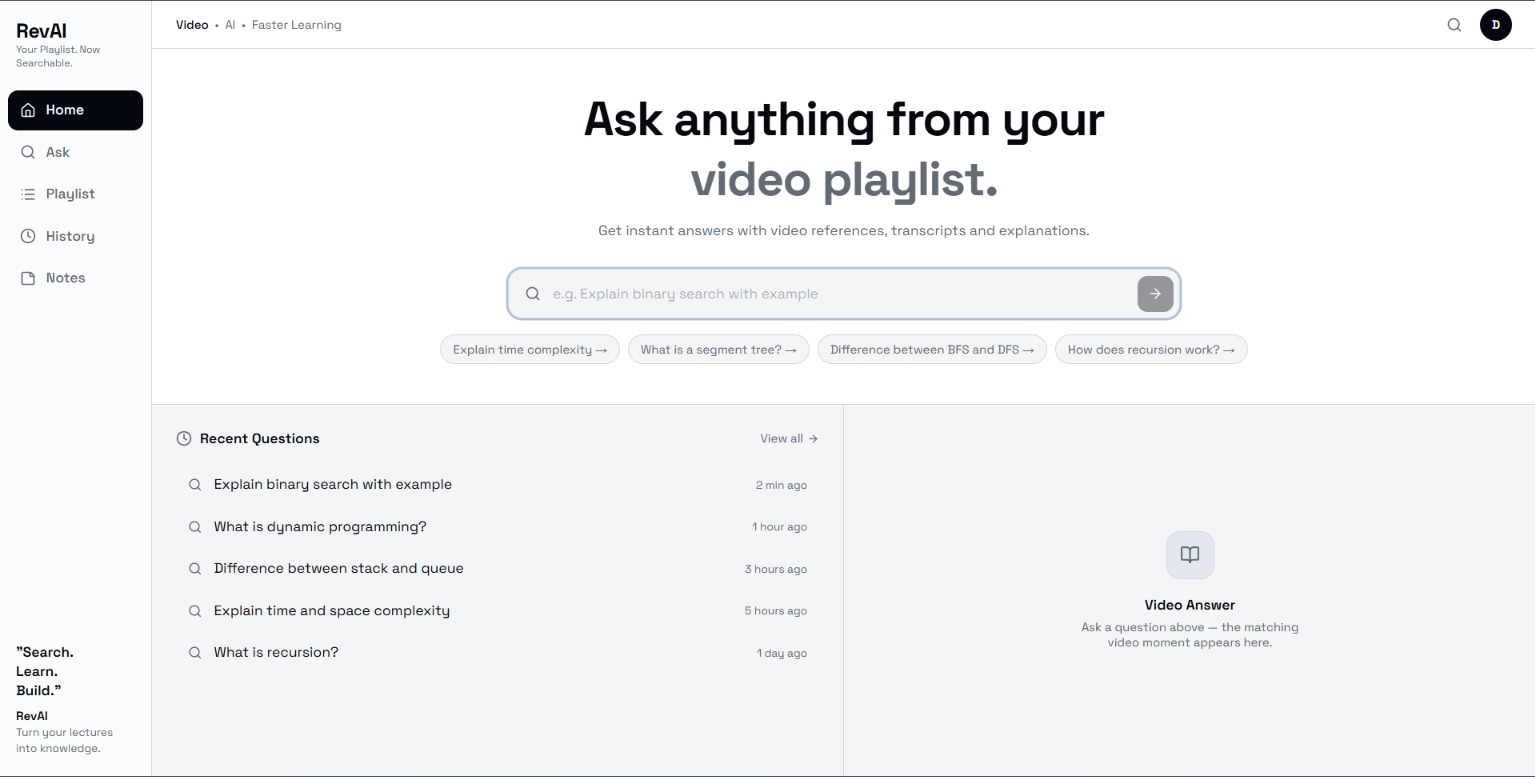
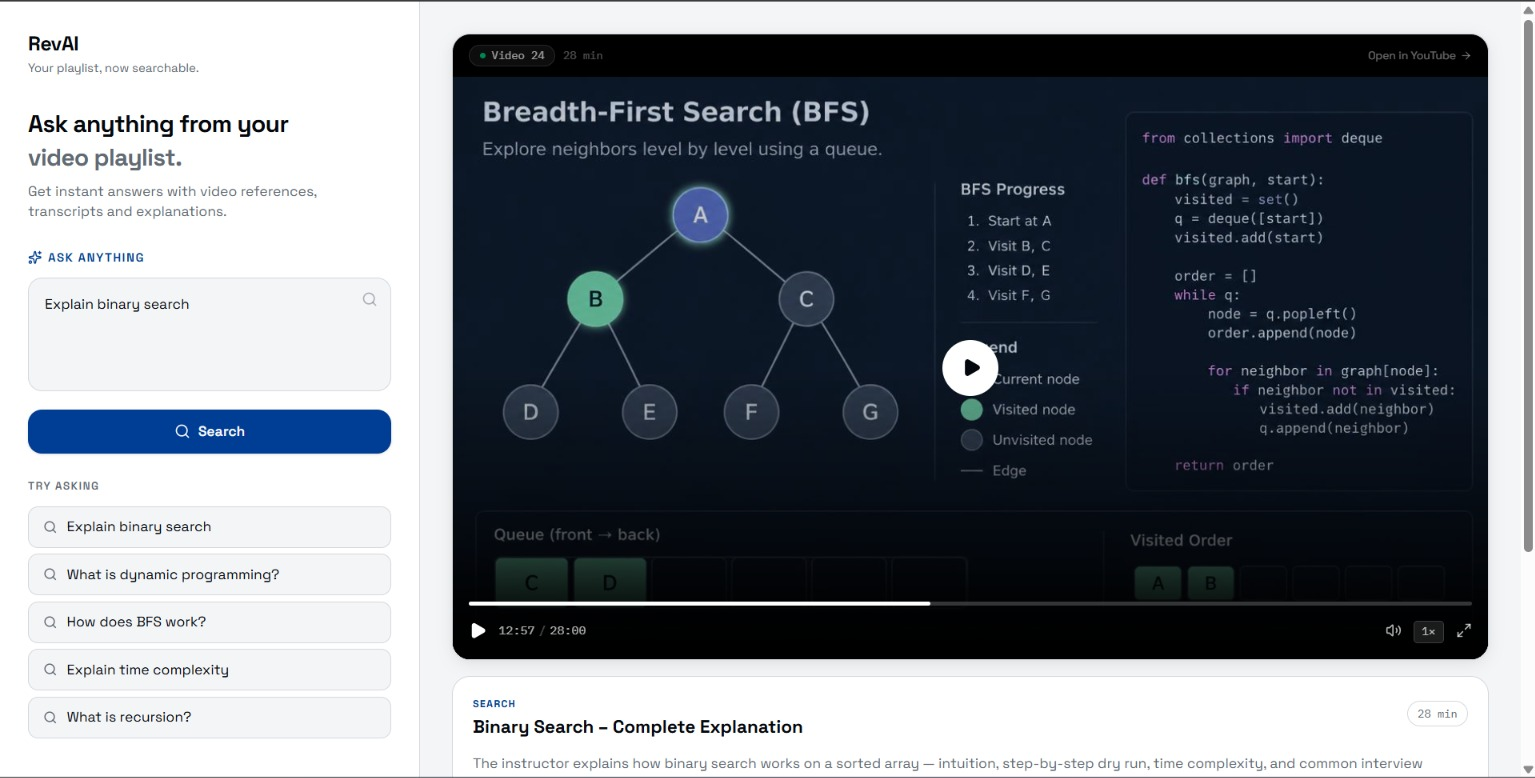
Links updated

diff --git a/src/components/Projects.tsx b/src/components/Projects.tsx
@@ -17,7 +17,7 @@ const projects = [
       "Groq API",
       "Qdrant",
     ],
-    live: "https://github.com/deepeshnavani1203/RevAI.git",
+    live: "https://rev-ai-alpha.vercel.app",
     github: "https://github.com/deepeshnavani1203/RevAI.git",
     paper: null,
     image: "/docs/revai.jpeg",
@@ -81,7 +81,7 @@ const projects = [
       "MongoDB",
       "Razorpay",
     ],
-    live: "https://stride-x-flax.vercel.app/",
+    live: "https://stride-x-flax.vercel.app",
     github: "https://github.com/deepeshnavani1203/StrideX.git",
     paper: null,
     image: "/docs/stridex-logo.png",
